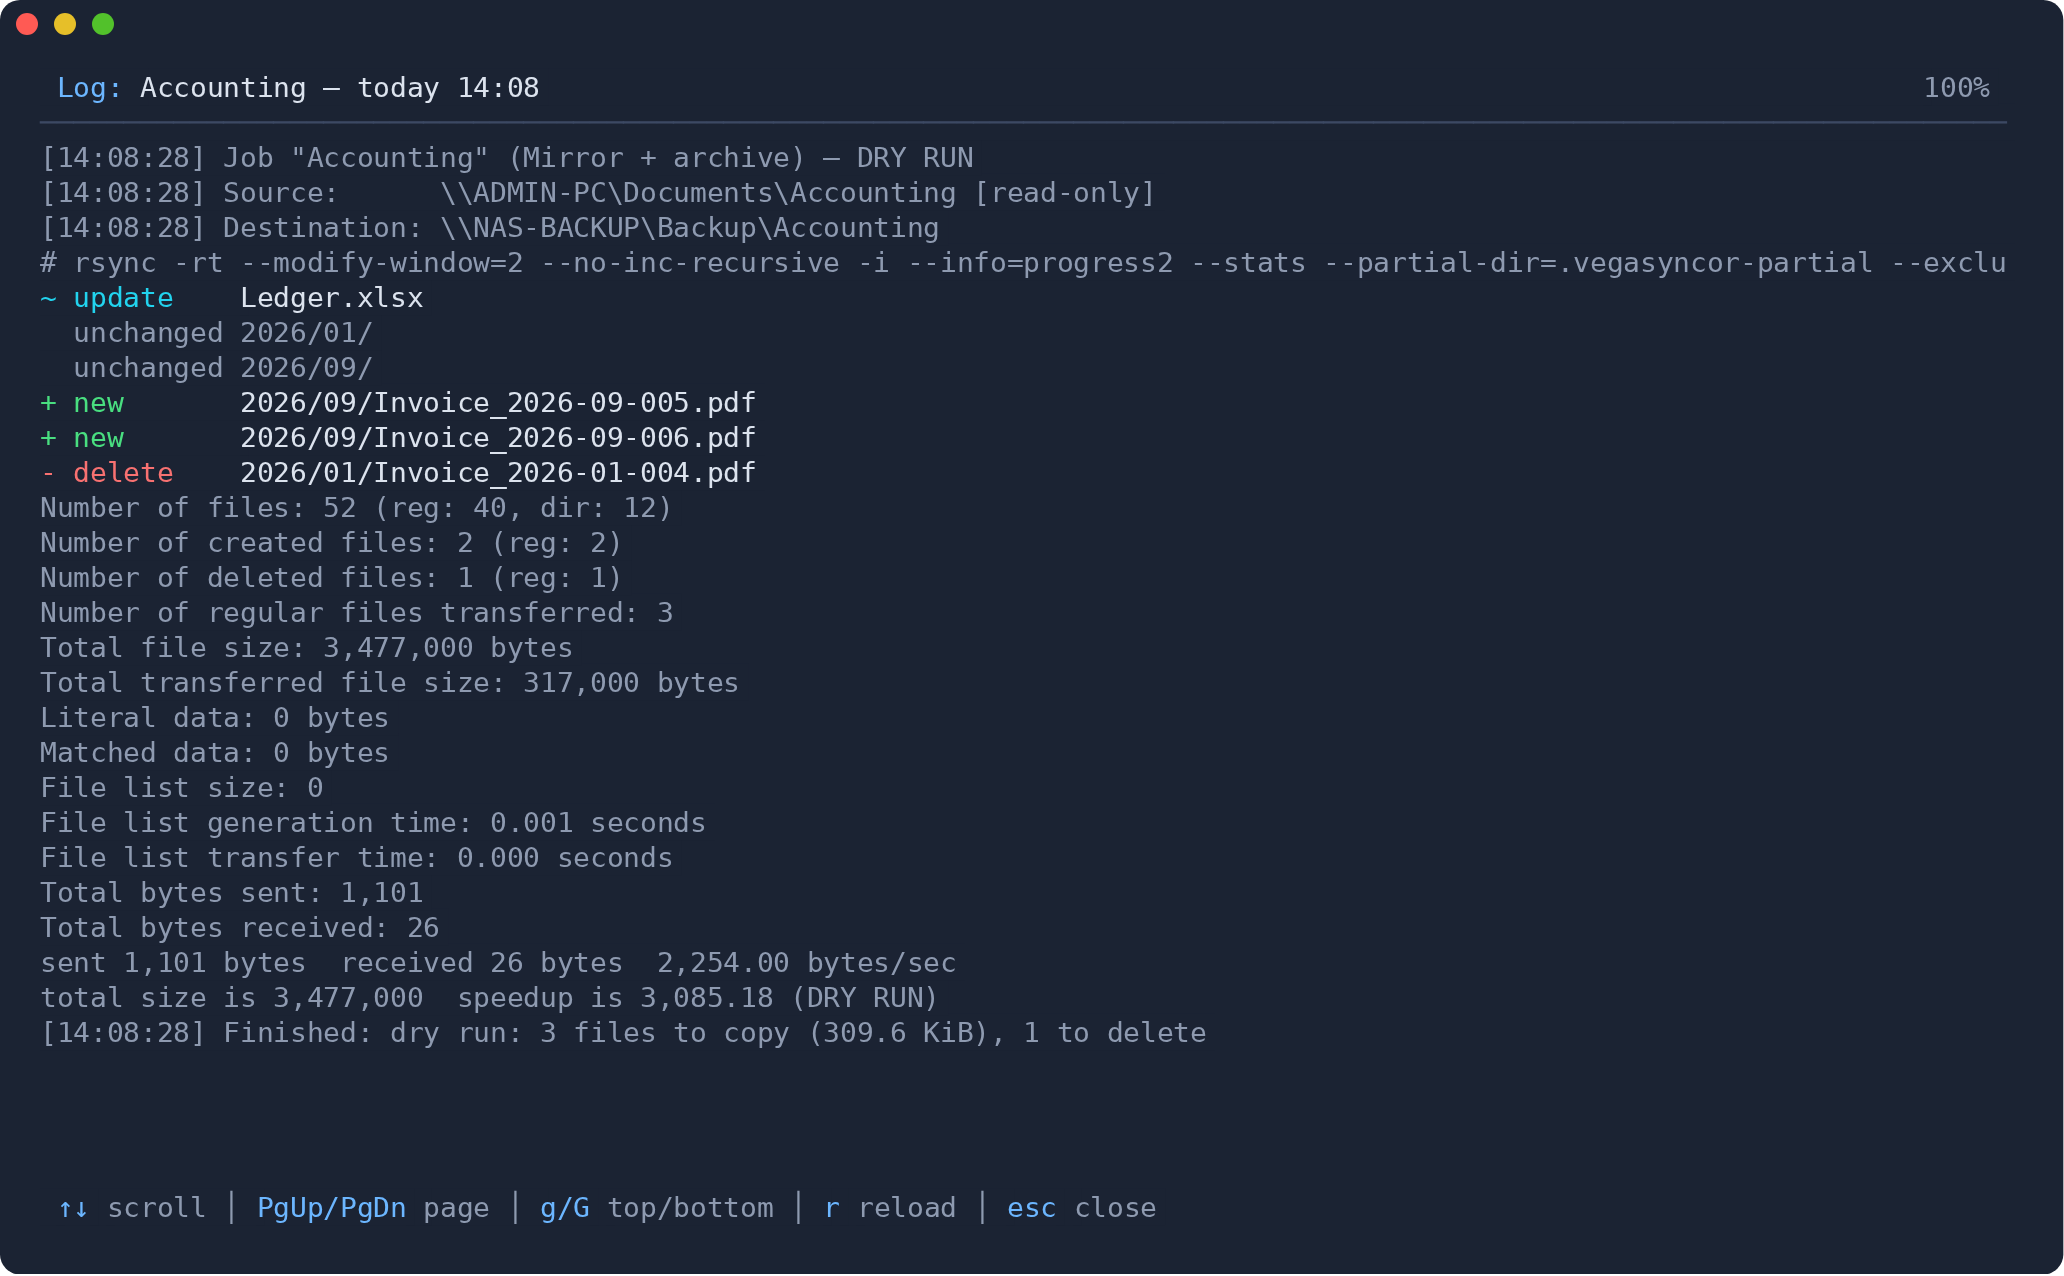
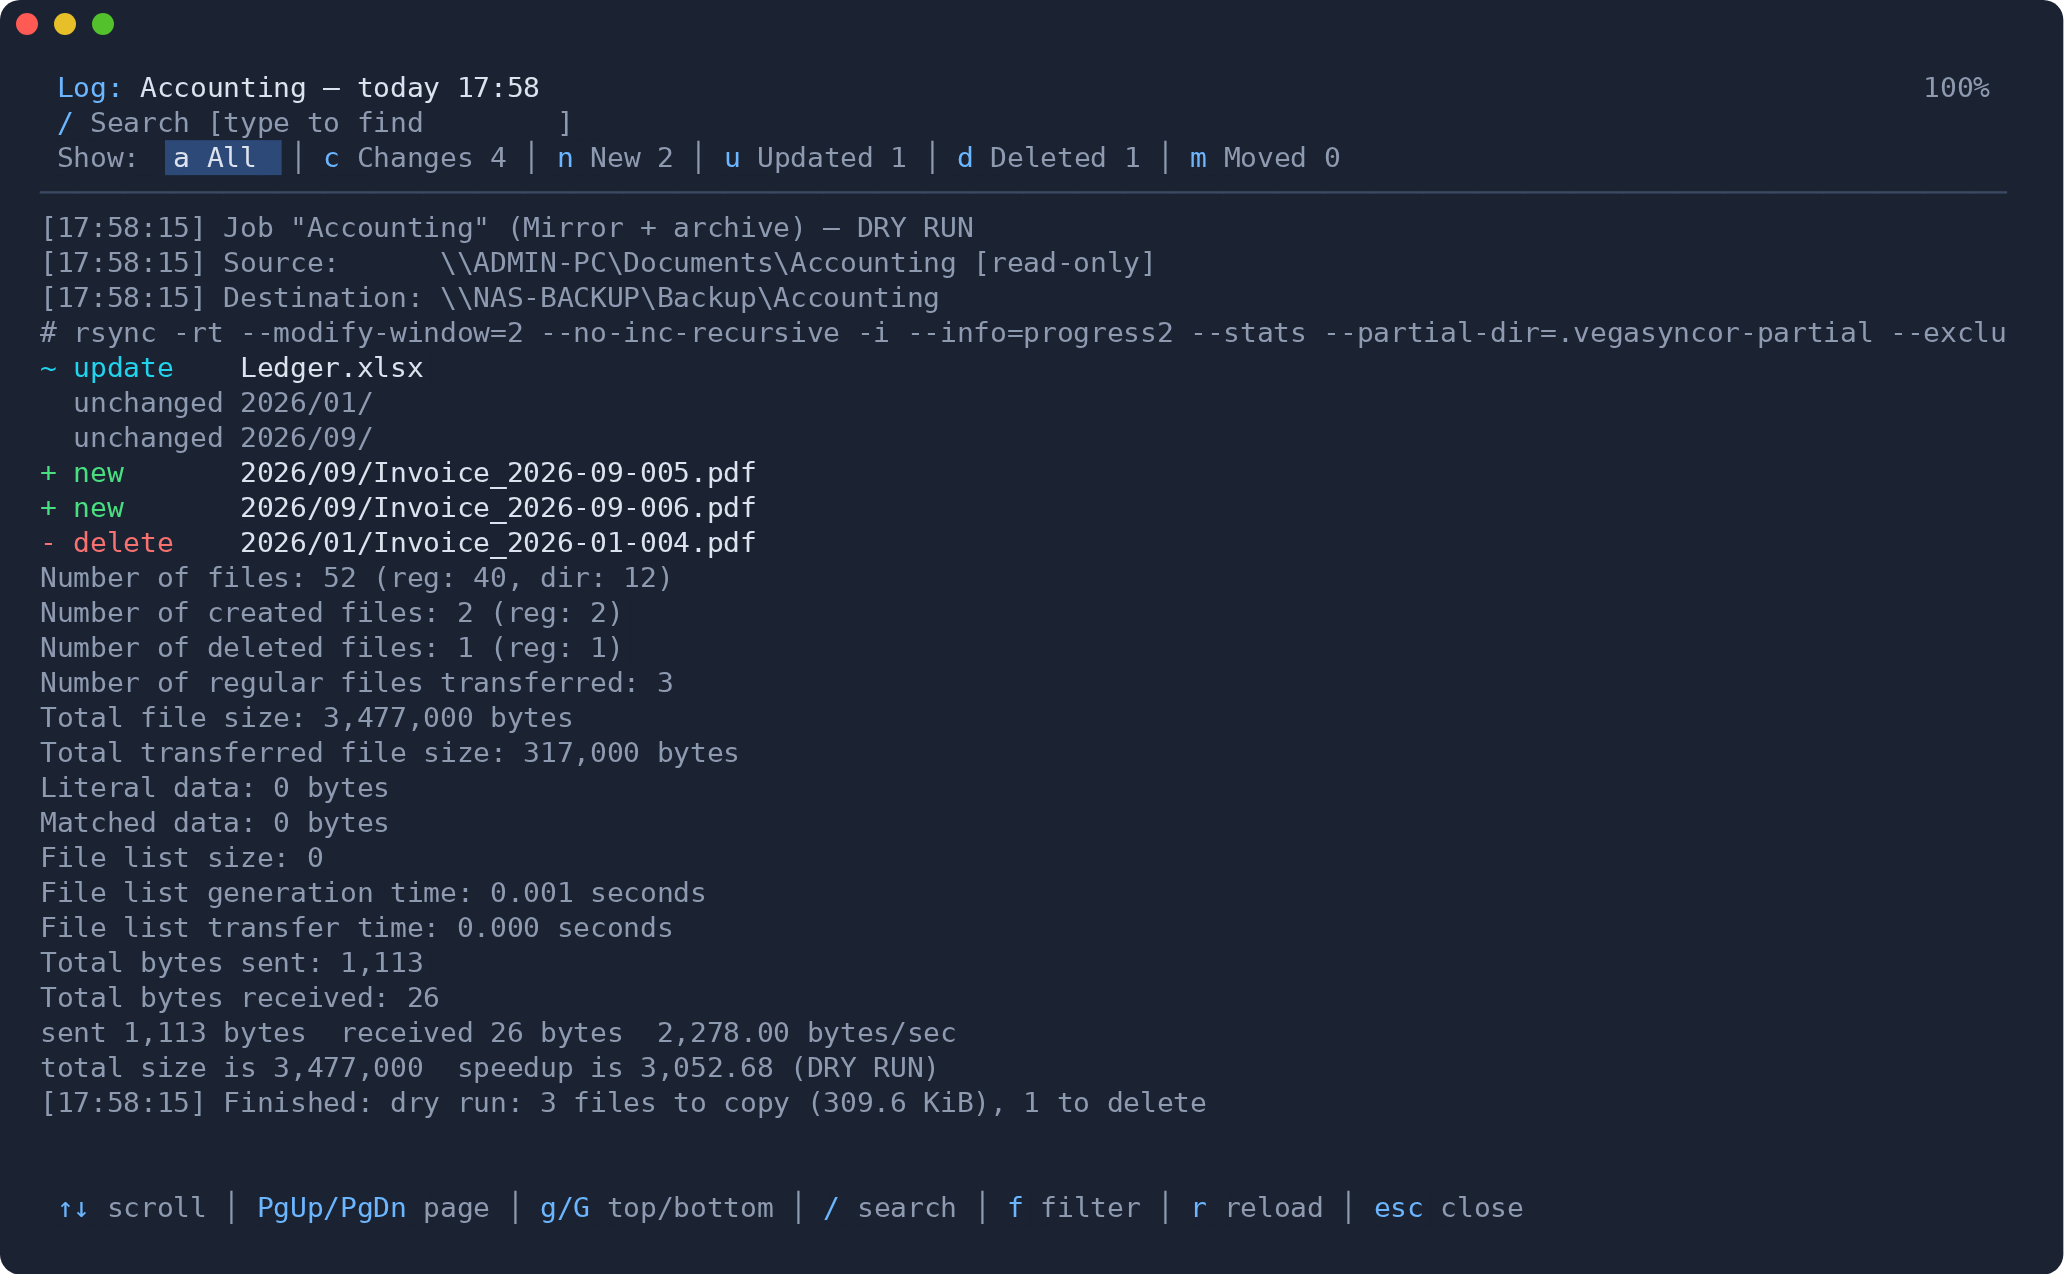
README: screenshots with OneDrive, screenshot tools in the repository
- new screenshots: OneDrive sign-in and a job copying to OneDrive with
  encryption; dashboard and connections now include OneDrive; the other
  screenshots retaken with the same demo data
- docs/screenshots/tools: setup, demo data and scenes to remake the
  screenshots (tmux → freeze → headless Chromium)
- dev mode: the simulated OneDrive sign-in shows an address in the same
  form as the real one

diff --git a/docs/screenshots/tools/fixansi.py b/docs/screenshots/tools/fixansi.py
@@ -1,0 +1,50 @@
+"""tmux capture-pane -e emits colour changes as a stream that continues across
+lines, while freeze starts each line from scratch: re-emit the active state at
+every line start. --trim-top drops the empty lines at the top (dialogs)."""
+import re, sys
+
+s = open(sys.argv[1], encoding="utf-8").read()
+FG, BG = "38;2;201;209;217", "48;2;17;21;28"
+sgr = re.compile(r"\x1b\[([0-9;]*)m")
+state = {"fg": None, "bg": None, "bold": False, "rev": False}
+
+def apply(params):
+    p = params.split(";") if params else ["0"]
+    i = 0
+    while i < len(p):
+        x = p[i]
+        if x in ("38", "48") and i + 1 < len(p):
+            n = 5 if p[i + 1] == "2" else 3
+            state["fg" if x == "38" else "bg"] = ";".join(p[i:i + n]); i += n; continue
+        if x in ("0", ""):
+            state.update(fg=None, bg=None, bold=False, rev=False)
+        elif x == "1": state["bold"] = True
+        elif x == "22": state["bold"] = False
+        elif x == "7": state["rev"] = True
+        elif x == "27": state["rev"] = False
+        elif x == "39": state["fg"] = None
+        elif x == "49": state["bg"] = None
+        i += 1
+
+def current():
+    parts = ["0", "1"] if state["bold"] else ["0"]
+    fg, bg = state["fg"] or FG, state["bg"] or BG
+    if state["rev"]:
+        fg, bg = "38" + bg[2:], "48" + fg[2:]
+    return "\x1b[" + ";".join(parts + [fg, bg]) + "m"
+
+lines = s.split("\n")
+while lines and lines[-1].strip() == "":
+    lines.pop()
+visible = lambda l: sgr.sub("", l).strip()
+if "--trim-top" in sys.argv:
+    while lines and visible(lines[0]) == "":
+        for m in sgr.finditer(lines[0]): apply(m.group(1))
+        lines.pop(0)
+out = []
+for line in lines:
+    prefix = current()
+    def repl(m):
+        apply(m.group(1)); return current()
+    out.append(prefix + sgr.sub(repl, line))
+open(sys.argv[2], "w", encoding="utf-8").write("\n".join(out))

diff --git a/internal/daemon/onedrive.go b/internal/daemon/onedrive.go
@@ -42,7 +42,10 @@ func devOneDrive() bool { return paths.DevMode() && paths.DevOneDriveRoot() != "
 
 func (d *Daemon) handleOneDriveSignIn(w http.ResponseWriter, r *http.Request) {
 	if devOneDrive() {
-		reply(w, api.OneDriveStart{Session: "dev", URL: "https://login.microsoftonline.com/common/oauth2/v2.0/authorize?dev=simulated"})
+		// same form as the real address (rclone's public app ID); nothing is contacted
+		reply(w, api.OneDriveStart{Session: "dev", URL: "https://login.microsoftonline.com/common/oauth2/v2.0/authorize?access_type=offline" +
+			"&client_id=b15665d9-eda6-4092-8539-0eec376afd59&redirect_uri=http%3A%2F%2Flocalhost%3A53682%2F&response_type=code" +
+			"&scope=Files.Read+Files.ReadWrite+Files.Read.All+Files.ReadWrite.All+Sites.Read.All+offline_access&state=" + config.NewID() + config.NewID()})
 		return
 	}
 	signMu.Lock()
@@ -85,7 +88,7 @@ func (d *Daemon) handleOneDriveFinish(w http.ResponseWriter, r *http.Request) {
 			return
 		}
 		reply(w, api.OneDriveAccount{Token: `{"access_token":"dev","token_type":"Bearer","refresh_token":"dev","expiry":"2099-01-01T00:00:00Z"}`,
-			DriveID: "dev-drive", DriveType: "personal", Account: "Dev User"})
+			DriveID: "dev-drive", DriveType: "business", Account: "Office Backup"})
 		return
 	}
 	signMu.Lock()

diff --git a/docs/screenshots/tools/svg2png.py b/docs/screenshots/tools/svg2png.py
@@ -1,0 +1,21 @@
+"""Renders a freeze SVG to PNG with headless Chromium, adjusting the letter
+spacing so the text matches the character grid freeze assumed."""
+import pathlib, re, sys
+from playwright.sync_api import sync_playwright
+
+svg, out = sys.argv[1], sys.argv[2]
+data = pathlib.Path(svg).read_text()
+w = float(re.search(r'<svg width="([\d.]+)"', data).group(1))
+h = float(re.search(r'height="([\d.]+)"', data).group(1))
+TARGET = 14 * 0.6 * 0.99206  # character advance assumed by freeze at 14px
+with sync_playwright() as p:
+    b = p.chromium.launch()
+    pg = b.new_page(viewport={"width": int(w + 1), "height": int(h + 1)}, device_scale_factor=2)
+    pg.set_content(f'<html><body style="margin:0;background:transparent">{data[data.index("<svg"):]}</body></html>')
+    pg.wait_for_timeout(300)
+    adv = pg.evaluate('''() => { let best=[0,0]; for (const e of document.querySelectorAll("body > svg text")) {
+        const n=e.textContent.length; if (n>best[0]) best=[n, e.getComputedTextLength()] } return best[1]/best[0] }''')
+    pg.add_style_tag(content=f"body > svg text {{ letter-spacing: {TARGET-adv:.4f}px; }}")
+    pg.wait_for_timeout(100)
+    pg.locator("body > svg").screenshot(path=out, omit_background=True)
+    b.close()

diff --git a/README.md b/README.md
@@ -60,7 +60,7 @@ destination folder can be created on the spot (`n`).
 
 ![Log of a dry run with new, updated and deleted files](docs/screenshots/05-dry-run.png)
 
-**Connections**: saved, encrypted credentials, reusable by several jobs.
+**Connections**: saved, encrypted credentials (and OneDrive accounts), reusable by several jobs.
 
 ![List of saved SMB connections](docs/screenshots/04-connections.png)
 
@@ -68,6 +68,13 @@ destination folder can be created on the spot (`n`).
 service to a new server.
 
 ![Export form with file name and password](docs/screenshots/08-export.png)
+
+**Off-site copy to OneDrive**: sign in from the TUI (open the link on your PC, paste back the address),
+then choose OneDrive as destination, with optional encryption before the upload.
+
+![OneDrive sign-in screen with the Microsoft link and the pasted address](docs/screenshots/09-onedrive-signin.png)
+
+![Job copying a network share to OneDrive with encryption](docs/screenshots/10-onedrive-job.png)
 
 **History**: outcome of every run, with access to the detailed log. The log can be filtered to show
 only the changes (`c`), or only new (`n`), updated (`u`), deleted (`d`) or moved (`m`) files, and
@@ -425,6 +432,11 @@ Translations live in `internal/i18n`, one table per language keyed by the Englis
 a text has no translation, if a translation is no longer used, or if the format verbs (`%s`, `%d`, …)
 differ. To add a language: add it to `Languages` and `catalogs` in `internal/i18n/i18n.go` and create
 its table.
+
+### Screenshots
+
+The README screenshots are made from the real TUI with demo data: see
+[docs/screenshots/tools](docs/screenshots/tools/README.md).
 
 ### Code layout
 

diff --git a/docs/screenshots/tools/README.md b/docs/screenshots/tools/README.md
@@ -1,0 +1,16 @@
+# Screenshot tools
+
+Development only: they produce the PNGs in `docs/screenshots` from the real TUI.
+
+Pipeline: `tmux capture-pane -e` → `fixansi.py` (colour state per line) →
+[freeze](https://github.com/charmbracelet/freeze) (SVG) → `svg2png.py` (headless Chromium via
+Playwright, letter spacing fixed to freeze's character grid).
+
+```bash
+docs/screenshots/tools/setup.sh                    # once: Playwright venv + Chromium libraries
+docs/screenshots/tools/demo.sh                     # demo data + service in tmux session "d"
+docs/screenshots/tools/take.sh                     # takes the screenshots into $OUT
+```
+
+`SHOTS_DIR` (default `/tmp/vegasyncor-shots`) holds the venv, the demo data and the output; freeze
+is expected in `~/.local/bin/freeze` (`FREEZE` to change it). Requires `tmux`, `rclone`, `curl`.
